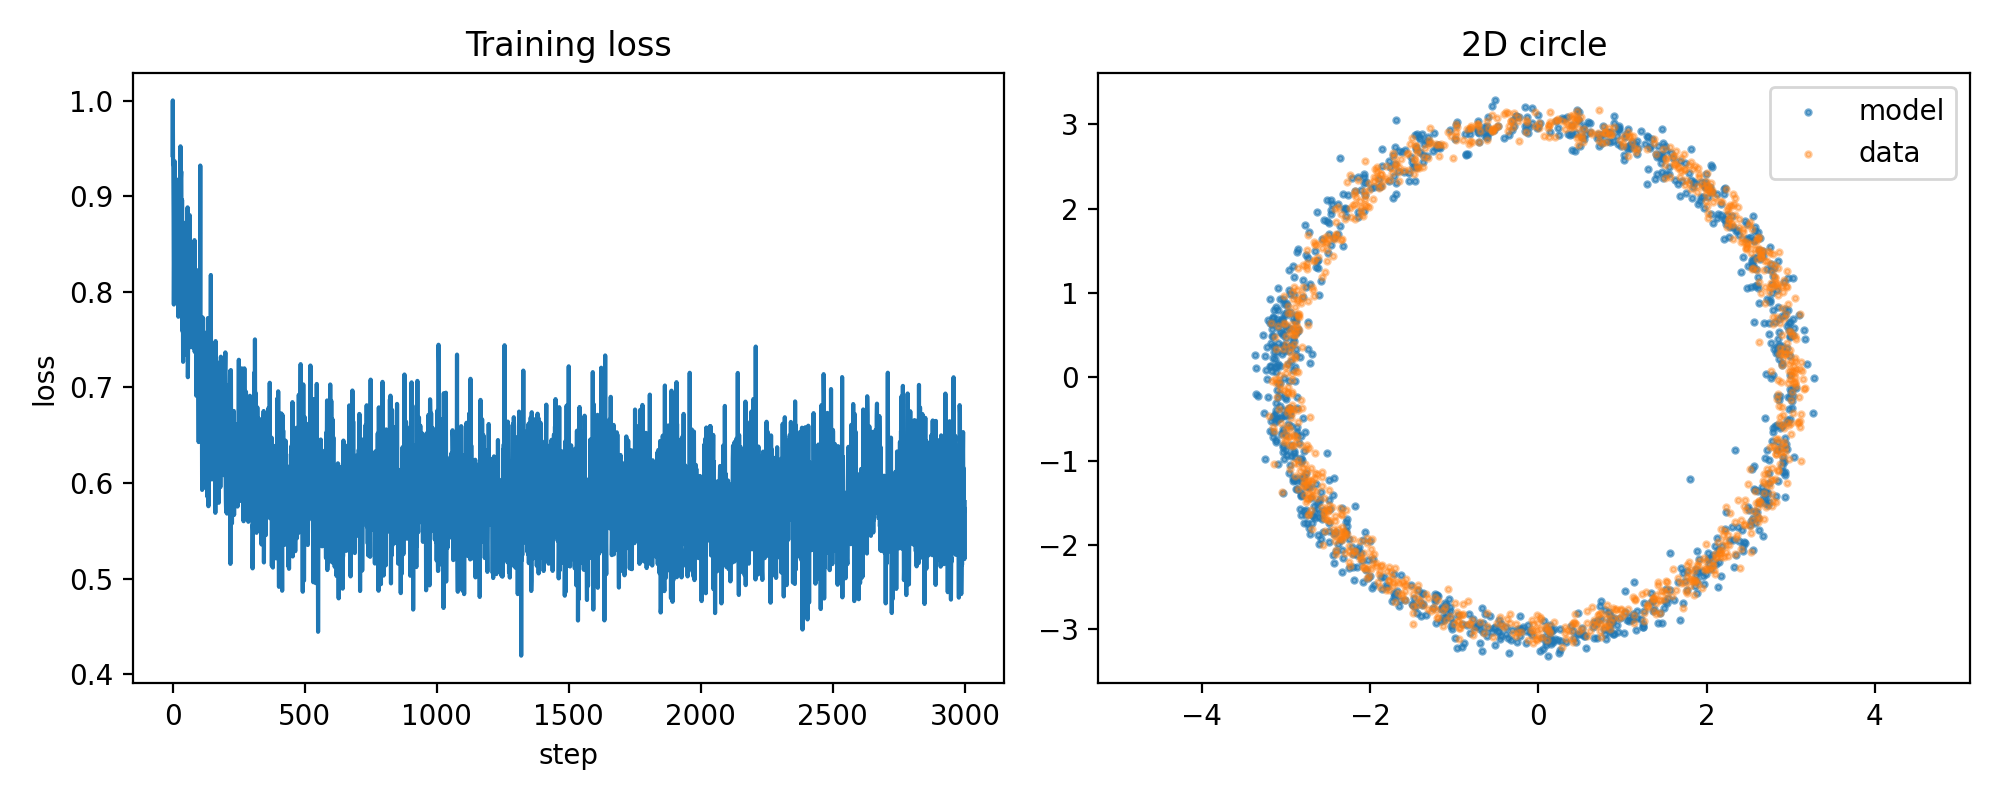
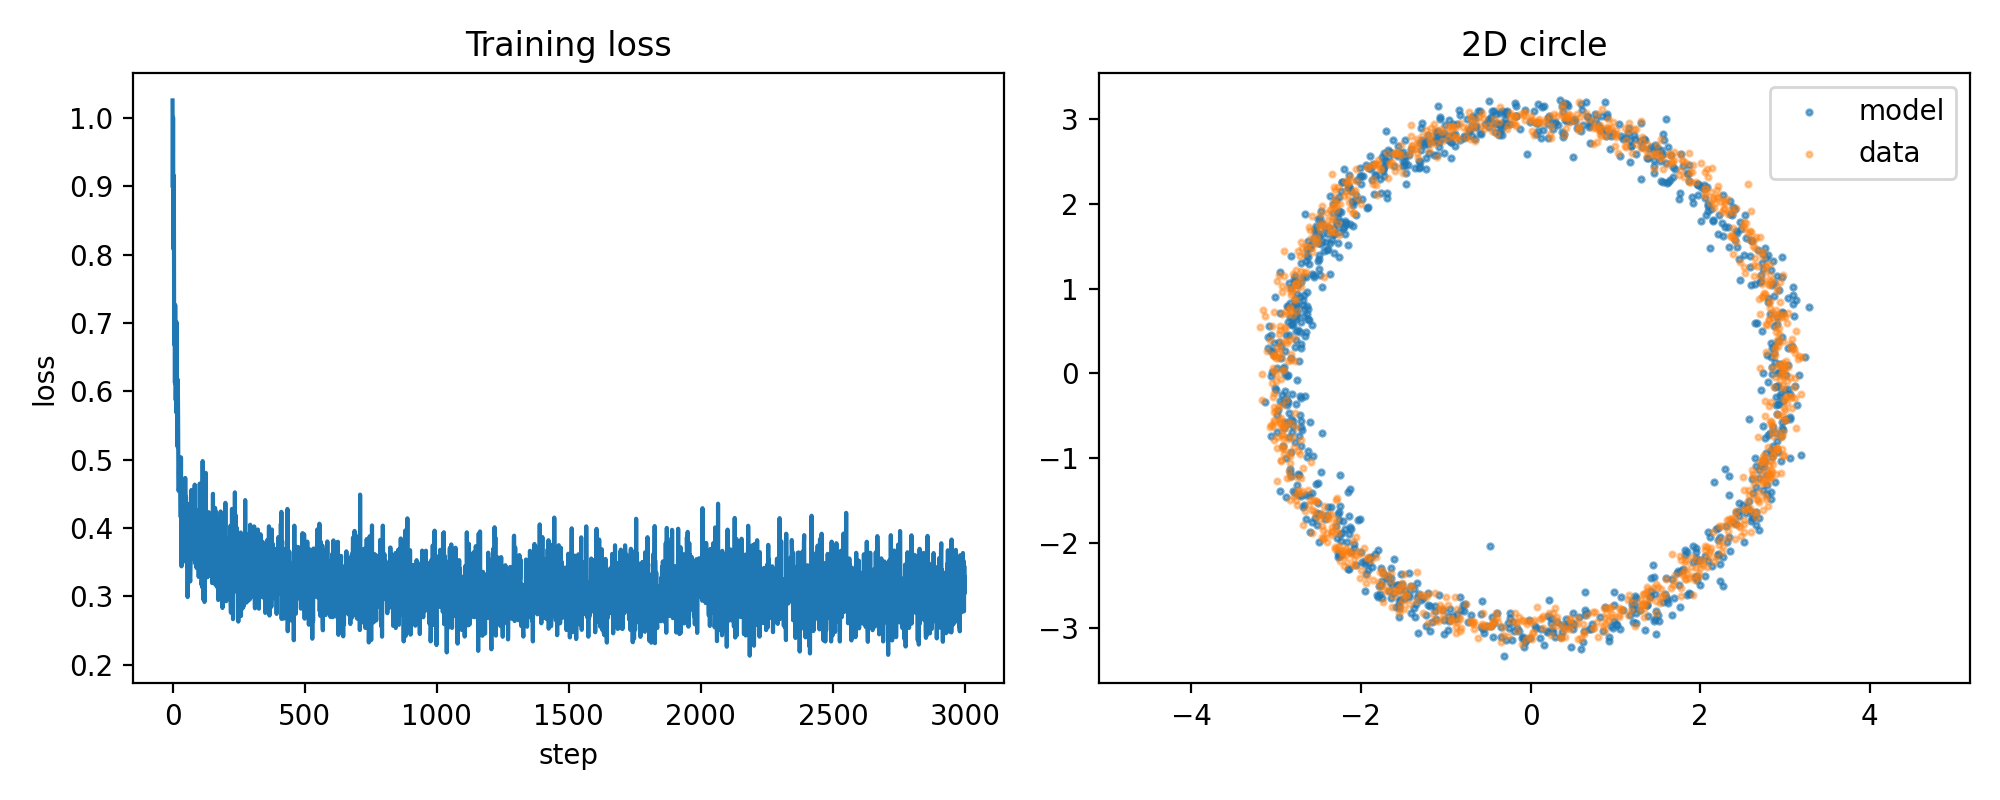
changes

diff --git a/pytorch_examples/example2_2d_circle.py b/pytorch_examples/example2_2d_circle.py
@@ -91,6 +91,20 @@ class DDPM:
       xt = self.p_sample(model, xt, t_batch)
     return xt
 
+  @torch.no_grad()
+  def sample_loop_with_history(self, model, batch_size, save_every=50):
+    """
+    Sample with intermediate saves for visualization (reverse diffusion trajectory).
+    """
+    xt = torch.randn(batch_size, 2, device=DEVICE)
+    history = [(self.num_steps - 1, xt.cpu().clone())]
+    for t in reversed(range(self.num_steps)):
+      t_batch = torch.full((batch_size,), t, device=DEVICE, dtype=torch.long)
+      xt = self.p_sample(model, xt, t_batch)
+      if t % save_every == 0 or t == 0:
+        history.append((t, xt.cpu().clone()))
+    return xt, history
+
 
 def sample_data(batch_size: int, radius=3.0, noise_std=0.1):
   angles = torch.rand(batch_size, device=DEVICE) * 2 * math.pi
@@ -104,7 +118,7 @@ def sample_data(batch_size: int, radius=3.0, noise_std=0.1):
 def train(
     steps=3000,
     batch_size=256,
-    num_steps=200,
+    num_steps=1000,
     lr=1e-3,
     log_every=300,
     sample_size=1000,
@@ -126,7 +140,8 @@ def train(
       print(f"step {step:04d} loss={loss.item():.4f}")
 
   with torch.no_grad():
-    samples = ddpm.sample_loop(model, sample_size).cpu().numpy()
+    samples, history = ddpm.sample_loop_with_history(model, sample_size, save_every=max(1, num_steps // 10))
+    samples = samples.cpu().numpy()
     data = sample_data(sample_size).cpu().numpy()
 
   plt.figure(figsize=(10, 4))
@@ -147,6 +162,57 @@ def train(
   plt.tight_layout()
   plt.savefig(out_path, dpi=200)
   print(f"Saved plot to {out_path}")
+
+  # Time-lapse scatter of reverse diffusion
+  print("Creating time-lapse scatter...")
+  n_steps = len(history)
+  n_cols = min(5, n_steps)
+  n_rows = (n_steps + n_cols - 1) // n_cols
+  fig, axes = plt.subplots(n_rows, n_cols, figsize=(n_cols * 3, n_rows * 3))
+  if n_rows == 1:
+    axes = axes[None, :] if n_cols > 1 else axes
+  elif n_cols == 1:
+    axes = axes[:, None]
+
+  # Generate true distribution samples for overlay
+  true_samples = sample_data(sample_size).cpu().numpy()
+
+  for idx, (t_step, xt_state) in enumerate(history):
+    row, col = idx // n_cols, idx % n_cols
+    ax = axes[row, col] if n_rows > 1 else axes[col]
+    pts = xt_state.numpy()
+    
+    # Overlay true distribution scatter (background)
+    ax.scatter(true_samples[:, 0], true_samples[:, 1], s=2, alpha=0.3, 
+              color="red", label="true dist" if idx == 0 else "")
+    # Generated samples scatter (foreground)
+    ax.scatter(pts[:, 0], pts[:, 1], s=2, alpha=0.6, color="steelblue", 
+              label="generated" if idx == 0 else "")
+    
+    ax.set_title(f"t = {t_step}", fontsize=10)
+    ax.set_xlabel("x₁", fontsize=8)
+    ax.set_ylabel("x₂", fontsize=8)
+    ax.set_xlim(-4, 4)
+    ax.set_ylim(-4, 4)
+    ax.set_aspect("equal")
+    ax.grid(True, alpha=0.3)
+    # reference circle
+    circle = plt.Circle((0, 0), 3.0, fill=False, color="orange", linestyle=":", linewidth=1, alpha=0.5)
+    ax.add_patch(circle)
+    if idx == 0:
+      ax.legend(fontsize=7, loc="upper right")
+
+  # Hide unused subplots
+  for idx in range(n_steps, n_rows * n_cols):
+    row, col = idx // n_cols, idx % n_cols
+    ax = axes[row, col] if n_rows > 1 else axes[col]
+    ax.axis("off")
+
+  plt.suptitle("Reverse Diffusion Process: 2D Circle Evolution", fontsize=12, y=1.02)
+  plt.tight_layout()
+  timeline_path = os.path.join(out_dir, "example2_timelapse_scatter.png")
+  plt.savefig(timeline_path, dpi=200, bbox_inches="tight")
+  print(f"Saved time-lapse scatter to {timeline_path}")
 
 
 if __name__ == "__main__":
